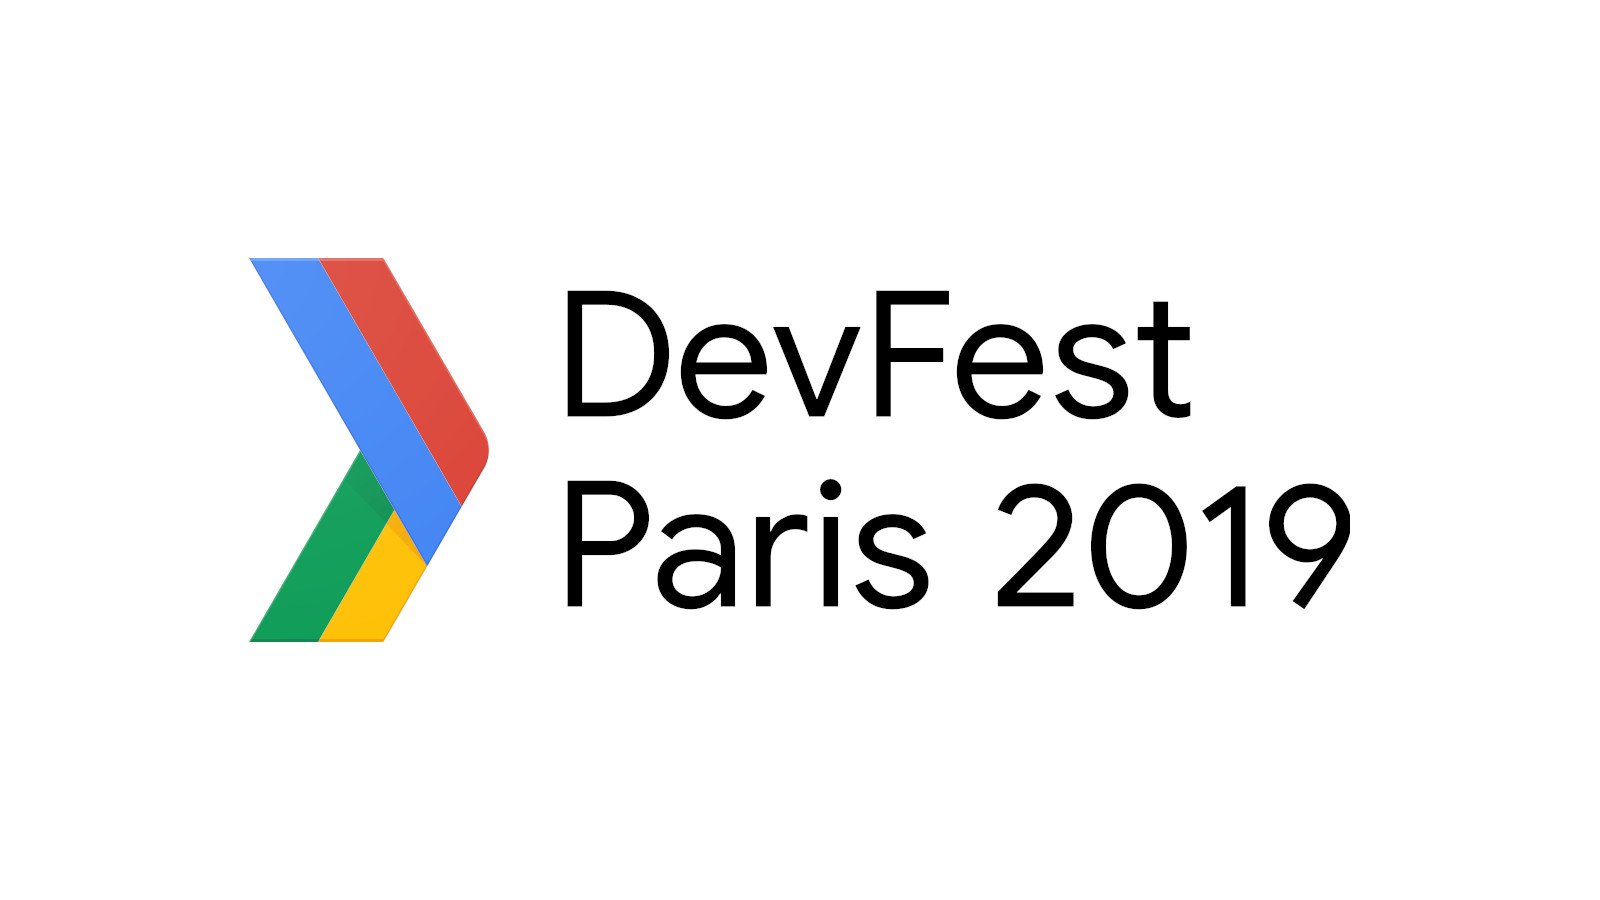
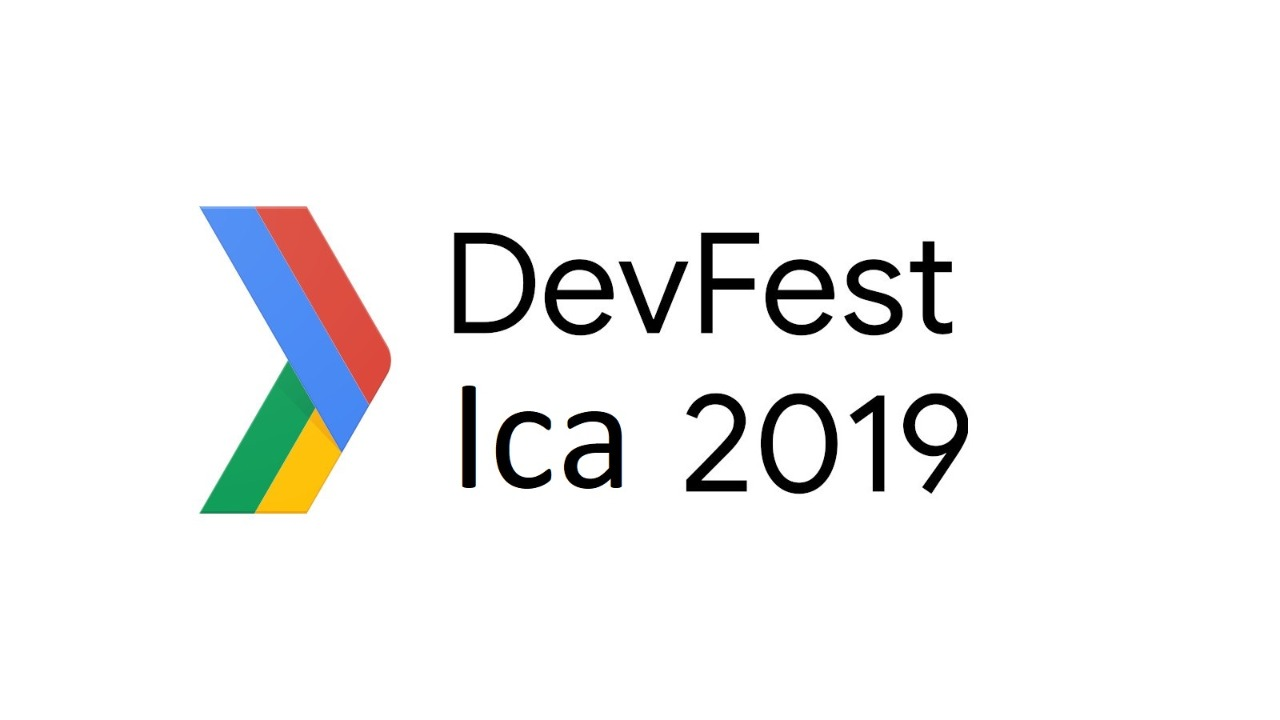
fix gdg ica

Changed region(s): [[0.3438, 0.5194, 0.8438, 0.7028], [0.25, 0.5806, 0.2812, 0.6417]]

diff --git a/src/pages/home-page.html b/src/pages/home-page.html
@@ -142,7 +142,7 @@
       hide-logo
     >
       <div class="home-content" layout vertical center>
-        <plastic-image class="hero-logo" srcset="/images/logo.svg" alt="{$ title $}"></plastic-image>
+        <plastic-image class="hero-logo" srcset="/images/social-share.jpg" alt="{$ title $}"></plastic-image>
         <div class="info-items highlight-font">
           <div class="info-item">{$ location.city $}. {$ dates $}</div>
           <div class="info-item">{$ heroSettings.home.description $}</div>
@@ -242,4 +242,3 @@
 
   </script>
 </dom-module>
-
